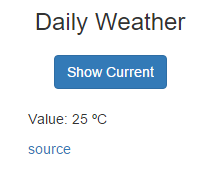
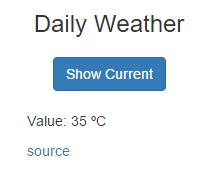
Small update on post 10

diff --git a/partials/2016-01-31-building-serverless-websites-in-aws-tutorial.html b/partials/2016-01-31-building-serverless-websites-in-aws-tutorial.html
@@ -223,7 +223,7 @@ region = us-east-1
 function getWeatherInfo(event) {
 
   return {
-    value: &quot;25&quot;,
+    value: &quot;35&quot;,
     event: event // input data that I&#39;m ignoring
   }
 }
